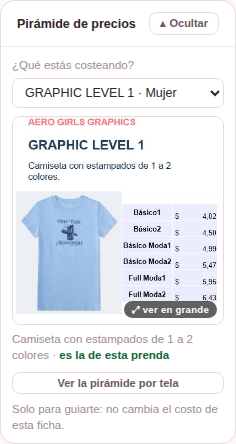
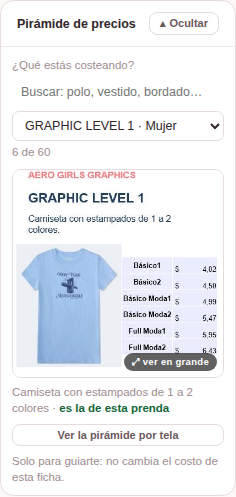
Buscador dentro del desplegable de la pirámide
- Caja de búsqueda sobre el selector, en la ficha y en la vista grande:
  busca por nombre, descripción, categoría y departamento, sin tildes y
  con varias palabras.
- Debajo se ve cuántas quedaron ("6 de 60"); al borrar vuelven las 60.
- La que está elegida nunca se pierde del desplegable.

Claude-Session: https://claude.ai/code/session_01S6VmNmNynepNHTyWMZo4vB

diff --git a/index.html b/index.html
@@ -2669,7 +2669,7 @@ const PIRFOTO=[
 ];
 const PIR_COLOR={'C. blancos':'#ffffff','C. claros':'#e8dfd2','C. medios':'#9a7f63','C. oscuros':'#2f2a28',
   'Blanco':'#ffffff','Colores claros':'#e8dfd2','Colores medios':'#9a7f63','Colores oscuros':'#2f2a28'};
-let pirSel=0,pirAbierta=true,pirRef='',pirVista='tipo',pirFoto=0;
+let pirSel=0,pirAbierta=true,pirRef='',pirVista='tipo',pirFoto=0,pirQ='';
 /* Las pirámides que le tocan a esta prenda, por su categoría y departamento */
 function piramidesDeTipo(){
   const x=byRef(cur);if(!x)return [];
@@ -2702,6 +2702,40 @@ function piramidesDeLaFicha(){
   });
   return dentro;
 }
+/* El desplegable de la pirámide, con buscador: escribe "polo", "vestido",
+   "bordado"… y deja solo las que tengan esa palabra. */
+function sinTildes(t){return String(t||'').toUpperCase().normalize('NFD').replace(/[\u0300-\u036f]/g,'')}
+function piramidesBuscadas(){
+  const pal=sinTildes(pirQ).split(/\s+/).filter(Boolean);
+  if(!pal.length)return null;
+  const dentro=[];
+  PIRFOTO.forEach((p,i)=>{
+    const txt=sinTildes(p.n+' '+p.d+' '+p.c.join(' ')+' '+(p.g||''));
+    if(pal.every(w=>txt.includes(w)))dentro.push(i);
+  });
+  return dentro;
+}
+function opcionesPir(){
+  const hay=piramidesBuscadas();
+  const deTipo=piramidesDeTipo().filter(i=>!hay||hay.includes(i));
+  const opc=i=>{const p=PIRFOTO[i];
+    return `<option value="${i}" ${i===pirFoto?'selected':''}>${escR(p.n)}${p.g?' · '+escR(p.g):''}</option>`};
+  const resto={};
+  PIRFOTO.forEach((p,i)=>{if(deTipo.includes(i))return;if(hay&&!hay.includes(i)&&i!==pirFoto)return;
+    const k=p.c[0]||'OTRAS';(resto[k]=resto[k]||[]).push(i)});
+  const cat=(byRef(cur)||{}).cat||'';
+  return (deTipo.length?`<optgroup label="De esta prenda · ${escR(cat)}">${deTipo.map(opc).join('')}</optgroup>`:'')
+    +Object.keys(resto).sort().map(k=>`<optgroup label="${escR(k)}">${resto[k].map(opc).join('')}</optgroup>`).join('');
+}
+function contarPir(){
+  const hay=piramidesBuscadas();
+  return hay?(hay.length?hay.length+' de '+PIRFOTO.length:'ninguna con esa palabra'):PIRFOTO.length+' pirámides';
+}
+function buscarPir(q){
+  pirQ=q;
+  ['pir-sel','pirm-sel'].forEach(id=>{const e=$(id);if(e)e.innerHTML=opcionesPir()});
+  ['pir-n','pirm-n'].forEach(id=>{const e=$(id);if(e)e.textContent=contarPir()});
+}
 function abrirPiramide(){
   pirAbierta=!pirAbierta;
   const c=$('pir-cuerpo'),b=$('pir-bt');
@@ -2724,19 +2758,13 @@ function rowsPiramide(){
   if(bt)bt.textContent=pirAbierta?'▴ Ocultar':'▾ Ver';
   if(!pirAbierta){if(!$('ovl-pir').classList.contains('hide'))pintarPirModal();return}
   const sel=PIRFOTO[pirFoto]||PIRFOTO[0];
-  const opc=i=>{const p=PIRFOTO[i];
-    return `<option value="${i}" ${i===pirFoto?'selected':''}>${escR(p.n)}${p.g?' · '+escR(p.g):''}</option>`};
-  const resto={};
-  PIRFOTO.forEach((p,i)=>{if(deTipo.includes(i))return;const k=p.c[0]||'OTRAS';(resto[k]=resto[k]||[]).push(i)});
-  const grupos=Object.keys(resto).sort().map(k=>
-    `<optgroup label="${escR(k)}">${resto[k].map(opc).join('')}</optgroup>`).join('');
   const cat=(byRef(cur)||{}).cat||'';
   c.innerHTML=`<div style="padding:10px 11px">
     <div class="mini" style="margin:0 0 4px">¿Qué estás costeando?</div>
-    <select class="fld" id="pir-sel" style="width:100%" onchange="verPirFoto(this.value)">
-      ${deTipo.length?`<optgroup label="De esta prenda · ${escR(cat)}">${deTipo.map(opc).join('')}</optgroup>`:''}
-      ${grupos}
-    </select>
+    <input class="fld" id="pir-q" type="text" style="width:100%;margin-bottom:5px" value="${escR(pirQ)}"
+      placeholder="Buscar: polo, vestido, bordado…" oninput="buscarPir(this.value)">
+    <select class="fld" id="pir-sel" style="width:100%" onchange="verPirFoto(this.value)">${opcionesPir()}</select>
+    <div class="mini" id="pir-n" style="margin:3px 0 0">${contarPir()}</div>
     <div class="pir-mini" onclick="abrirPirGrande()" title="Clic para verla en grande"
       data-zoom="piramides/${sel.f}.jpg" data-zoom-t="${escR(sel.n)}">
       <img src="piramides/${sel.f}.jpg" alt="${escR(sel.n)}"
@@ -2765,20 +2793,14 @@ function pintarPirModal(){
   const d2=v=>v==null?'—':'$'+(+v).toFixed(2);
   if(pirVista==='tipo'){
     const sel=PIRFOTO[pirFoto]||PIRFOTO[0];
-    const opc=i=>{const p=PIRFOTO[i];
-      return `<option value="${i}" ${i===pirFoto?'selected':''}>${escR(p.n)}${p.g?' · '+escR(p.g):''}</option>`};
-    const resto={};
-    PIRFOTO.forEach((p,i)=>{if(deTipo.includes(i))return;const k=p.c[0]||'OTRAS';(resto[k]=resto[k]||[]).push(i)});
-    const grupos=Object.keys(resto).sort().map(k=>
-      `<optgroup label="${escR(k)}">${resto[k].map(opc).join('')}</optgroup>`).join('');
     $('pirm-t').textContent=sel.n;
     $('pirm-s').textContent=sel.d+(sel.g?' · '+sel.g:'');
     b.innerHTML=`<div class="pir-elige">
         <span class="mini" style="margin:0">¿Qué estás costeando?</span>
-        <select class="fld" style="min-width:300px;max-width:430px" onchange="verPirFoto(this.value)">
-          ${deTipo.length?`<optgroup label="De esta prenda · ${escR((byRef(cur)||{}).cat||'')}">${deTipo.map(opc).join('')}</optgroup>`:''}
-          ${grupos}
-        </select></div>
+        <input class="fld" id="pirm-q" type="text" style="width:190px" value="${escR(pirQ)}"
+          placeholder="Buscar: polo, vestido…" oninput="buscarPir(this.value)">
+        <select class="fld" id="pirm-sel" style="min-width:290px;max-width:430px" onchange="verPirFoto(this.value)">${opcionesPir()}</select>
+        <span class="mini" id="pirm-n" style="margin:0">${contarPir()}</span></div>
       <div class="pir-foto"><img src="piramides/${sel.f}.jpg" alt="${escR(sel.n)}"></div>`;
     return;
   }
